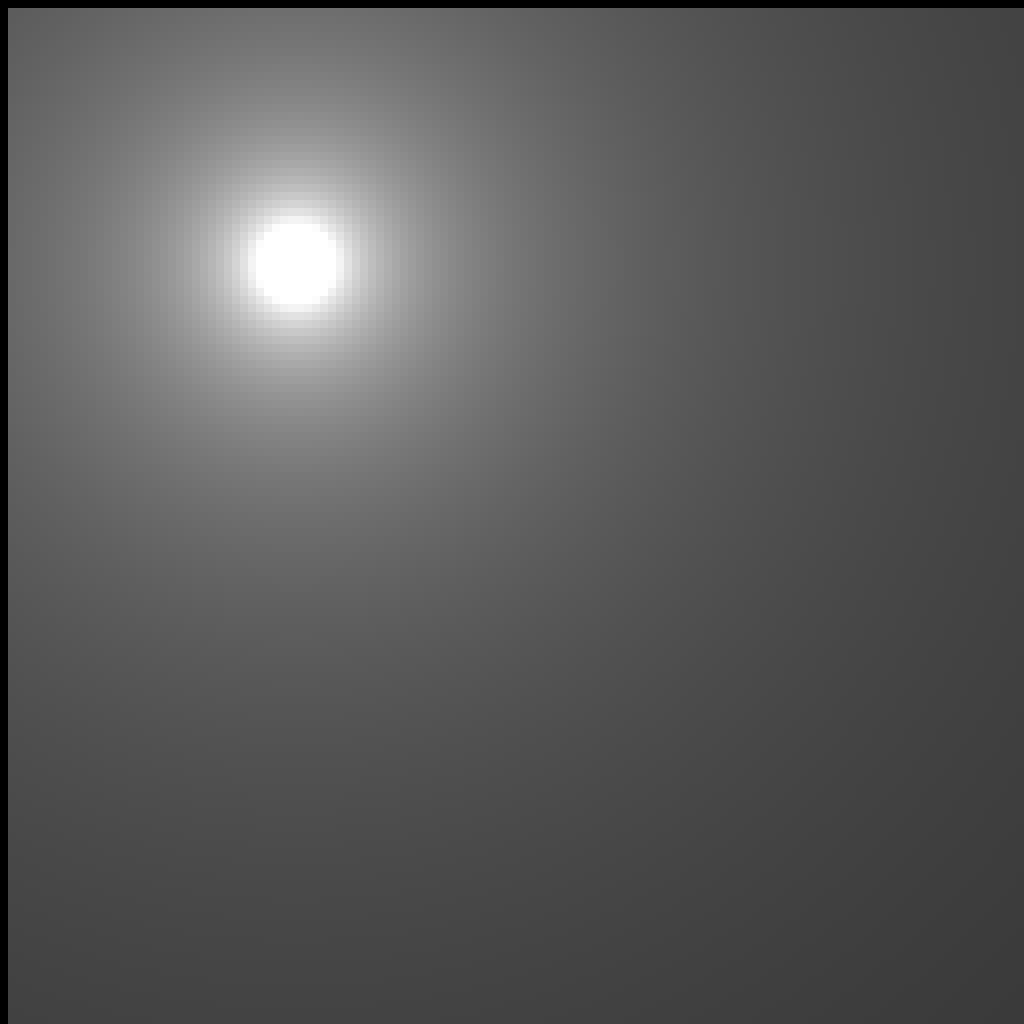
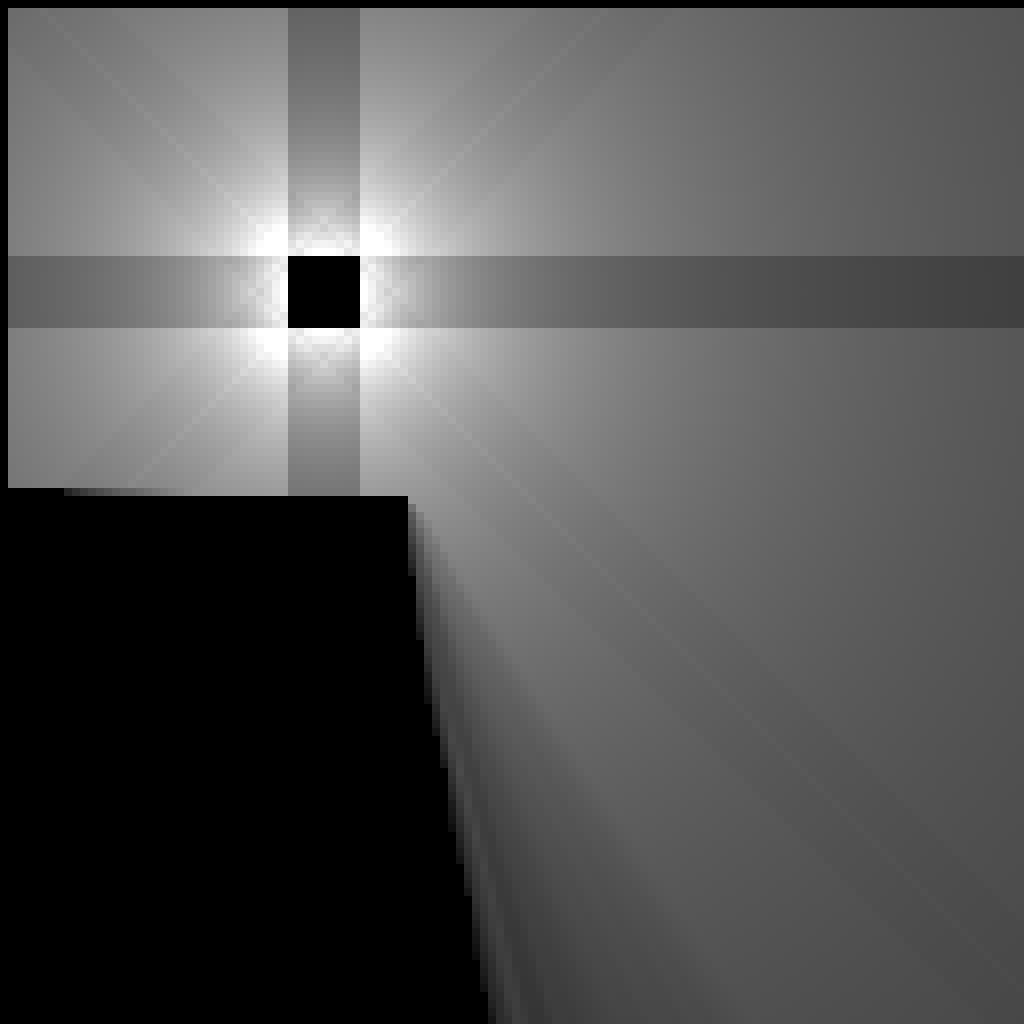
update transmittance method

diff --git a/src/render/ext.rs b/src/render/ext.rs
@@ -130,8 +130,12 @@ where
         rotate_transform * rotate_transform,
         rotate_transform * rotate_transform * rotate_transform,
     ];
-    let scenes = transforms
-        .map(|t| scene.iter().map(|(k, v)| (t.transform_point2(k.as_vec2() + 0.5).floor().as_ivec2(), *v)).collect::<PixelScene>());
+    let scenes = transforms.map(|t| {
+        scene
+            .iter()
+            .map(|(k, v)| (t.transform_point2(k.as_vec2() + 0.5).floor().as_ivec2(), *v))
+            .collect::<PixelScene>()
+    });
 
     let mut image = HashMap::new();
     for cell in range2d(IVec2::splat(1), IVec2::splat(128)) {
@@ -142,19 +146,6 @@ where
             let probe = probe.round();
             for i in [-1, 0] {
                 let frustum = Frustum::Cone(ConeFrustum { focus: probe.as_ivec2(), size: 1, index: i });
-                // let bundle =
-                //     RayBundle { start: LineSegment::new(probe, probe), end: frustum.at(settings.frustum_start) };
-                /*let emission = scene.emission_within::<Constant>(
-                    frustum,
-                    &RayBundle { start: LineSegment::new(probe, probe), end: frustum.at(settings.frustum_start) }
-                        .as_polygon(),
-                    bundle,
-                );
-                let transmittance_start = if settings.pretrace { 1.0 } else { settings.frustum_start };
-                let transmission = scene.trace_bundle(RayBundle {
-                    start: LineSegment::new(probe, probe),
-                    end: frustum.at(transmittance_start),
-                });*/
 
                 let (ext_cache, cache) = caches.entry((k, i)).or_default();
                 let radiance = get_radiance_recursive_ext(ext_cache, cache, frustum, scene);

diff --git a/src/extension.rs b/src/extension.rs
@@ -186,12 +186,13 @@ pub fn get_extension<L: Radiance>(
     // figure out edge cases later.
     if extension.size() == 1 {
         let pixel = extension.start();
-        return Fluence {
-            transmittance: 1.0,
-            radiance: L::new(f, pixel.as_vec2() + 0.5) * pixel_scene.get(&pixel).copied().unwrap_or(0.0),
-        };
-        /*if let Some(_value) = pixel_scene.get(&pixel) {
+        /*return if let Some(value) = pixel_scene.get(&pixel) {
+            Fluence { transmittance: 0.0, radiance: L::new(f, pixel.as_vec2() + 0.5) * *value }
+        } else {
             Fluence { transmittance: 1.0, radiance: L::default() }
+        };*/
+        return if let Some(_value) = pixel_scene.get(&pixel) {
+            Fluence { transmittance: 0.0, radiance: L::default() }
         } else {
             // pixels are always seen on two sides by probes; so give half radiance for both sides.
             // could do something more complex, but may not be necessary.
@@ -204,7 +205,7 @@ pub fn get_extension<L: Radiance>(
                 radiance: L::new(f, next_pixel.as_vec2() + 0.5) * next_pixel_emittance * 0.5
                     + L::new(f, side_pixel.as_vec2() + 0.5) * side_pixel_emittance * 0.5,
             }
-        };*/
+        };
     }
 
     let mut get_fluence_reproj = |ext: Extension| {

diff --git a/src/bin/offline.rs b/src/bin/offline.rs
@@ -66,7 +66,17 @@ fn main() {
 
     let radiance = if ext {
         let mut scene = PixelScene::new();
-        scene.insert(IVec2::new(36, 32), 5.0);
+
+        let pos = IVec2::new(36, 32);
+        for i in 0..8 {
+            for j in 0..8 {
+                scene.insert(pos + IVec2::new(i, j), 1.0);
+            }
+        }
+
+        for i in 0..50 {
+            scene.insert(IVec2::new(i, 60), 0.0);
+        }
 
         render_ext::<AveragePosition, Inverse2>(&scene)
     } else {
